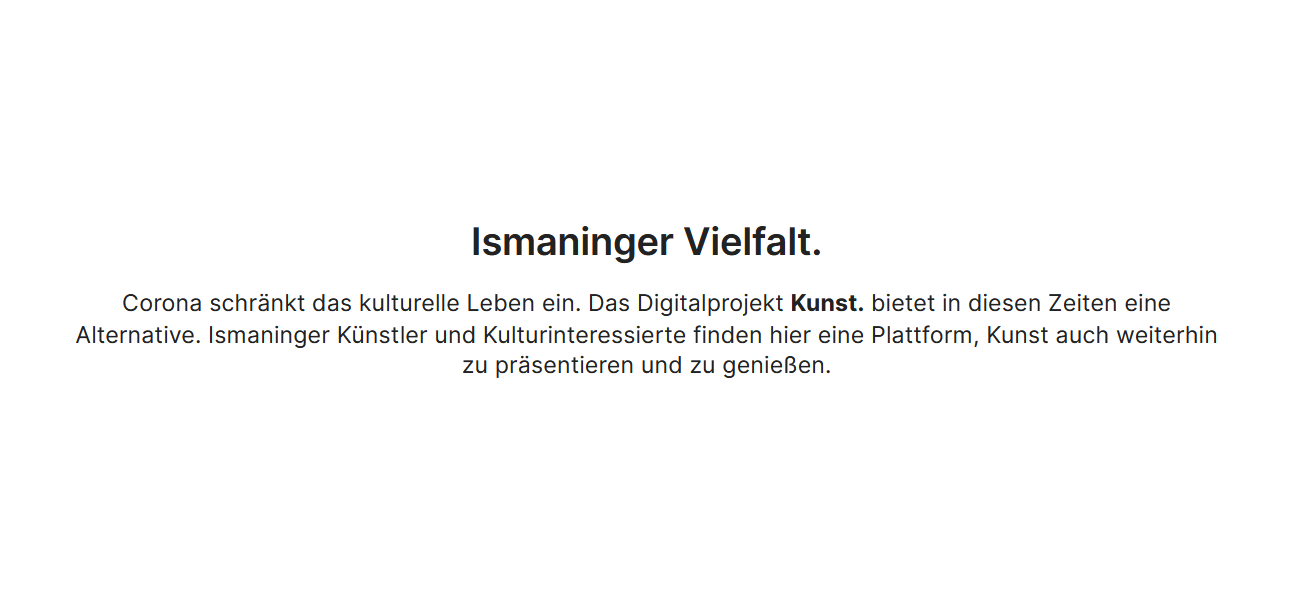
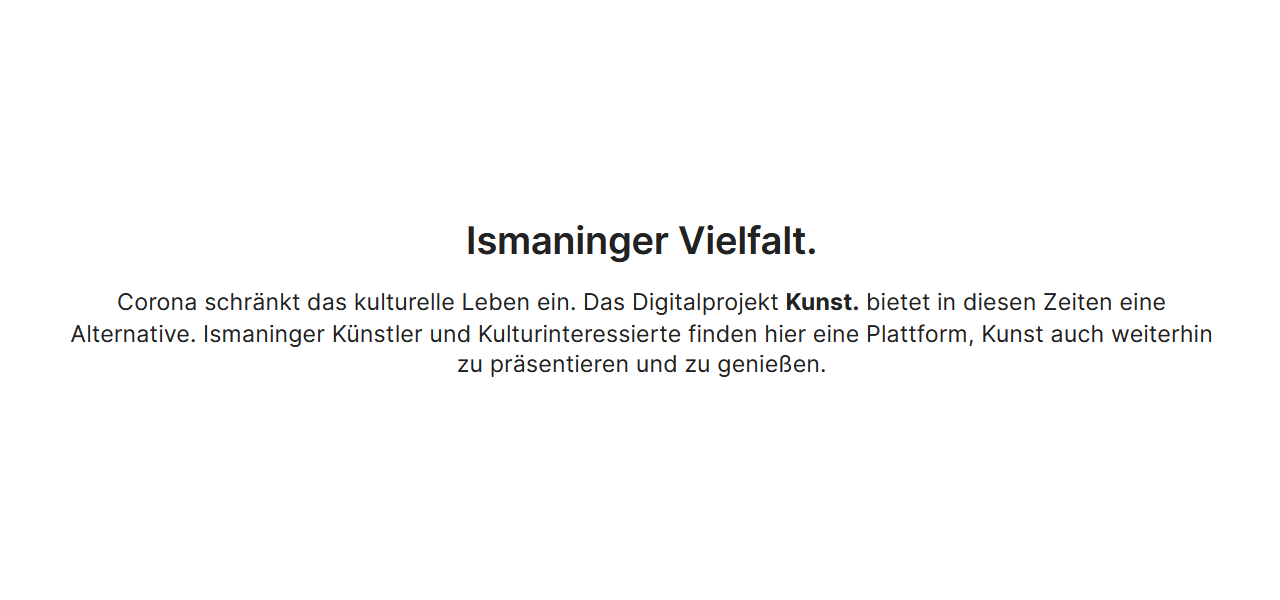
Social Media preview updated

Changed region(s): [[0.0312, 0.48, 0.9688, 0.63], [0.3438, 0.36, 0.6562, 0.45]]

diff --git a/index.html b/index.html
@@ -13,7 +13,9 @@
         <meta property="og:type" content="website" />
         <meta property="og:url" content="https://kunst.ismaning.digital" />
         <meta property="og:image" content="https://kunst.ismaning.digital/images/social-media-preview.png" />
-    </head>
+        <meta property="og:image:width" content="1280" />
+        <meta property="og:image:height" content="600" />
+        </head>
 	<body>
 		<div class="reveal">
 			<div class="slides">

diff --git a/imprint.html b/imprint.html
@@ -12,6 +12,8 @@
     <meta property="og:type" content="website" />
     <meta property="og:url" content="https://kunst.ismaning.digital" />
     <meta property="og:image" content="https://kunst.ismaning.digital/images/social-media-preview.png" />
+    <meta property="og:image:width" content="1280" />
+    <meta property="og:image:height" content="600" />
 </head>
 <body>
     <div id="imprint" class="reveal">
